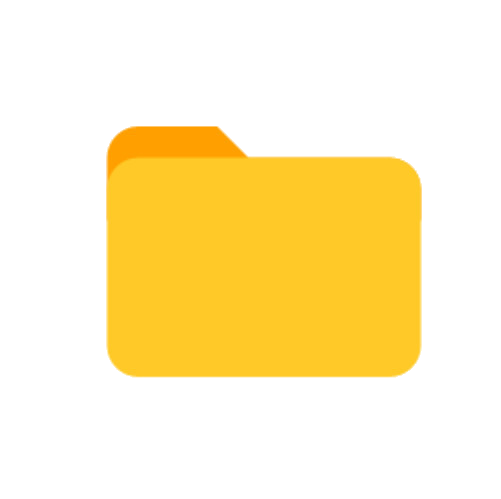
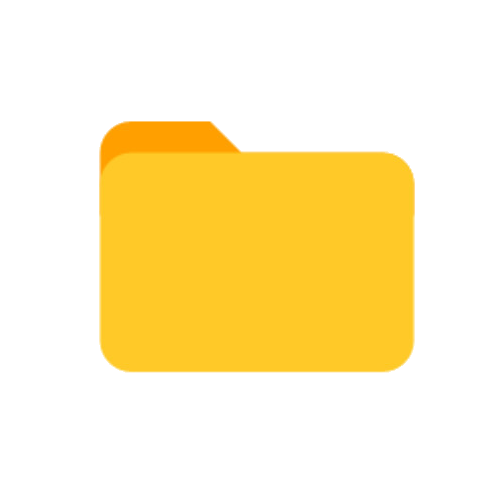
Fixed image sizing issue in latex folders.

diff --git a/src/components/extras/latex/LatexFolders.tsx b/src/components/extras/latex/LatexFolders.tsx
@@ -1,0 +1,49 @@
+import { useState } from 'react';
+import styles from './LatexFolders.module.scss';
+
+import CourseFolder from "./CourseFolder";
+
+const LatexFolders = () => {
+
+    const [xPos, setXPos] = useState(0);
+
+    const onClick = (direction) => {
+        if (direction === 'left') {
+            xPos === -780 ? setXPos(xPos) : setXPos(xPos - 130);
+        } else {
+            xPos === 0 ? setXPos(xPos) : setXPos(xPos + 130);
+        }
+    }
+
+    const courseNames = [
+        { id: 'MATH 314', name: 'Advanced Calculus' },
+        { id: 'MATH 475', name: 'Hons. Partial Differential Equations' },
+        { id: 'MATH 325', name: 'Hons. Ordinary Differntial Equations' },
+        { id: 'MATH 240', name: 'Discret Mathematics' },
+        { id: 'PHYS 241', name: 'Signals Processing' },
+        { id: 'PHYS 350', name: 'Hons. Quantum Mechanics' },
+        { id: 'PHYS 356', name: 'Hons. Electricity and Magnetism' },
+        { id: 'MATH 327', name: 'Matrix Numerical Analysis' },
+        { id: 'PHYS 230', name: 'Dynamics of Simple Systems' }
+    ]
+
+    return (
+        <div className={styles.forecast_window}>
+            <button className={styles.left_arrow}
+                onClick={() => onClick('right')}>
+            </button>
+            <div className={styles.forecast_slider}>
+                <div className={styles.forecast_container} style={{ transform: `translateX(${xPos}px)` }}>
+                    {courseNames.map((value, index) => (
+                        <CourseFolder value={value} key={index} xPos={xPos} index={index}/>
+                    ))}
+                </div>
+            </div>
+            <button className={styles.right_arrow}
+                onClick={() => onClick('left')}>
+            </button>
+        </div>
+    )
+}
+
+export default LatexFolders;

diff --git a/src/components/extras/latex/CourseFolder.tsx b/src/components/extras/latex/CourseFolder.tsx
@@ -1,0 +1,36 @@
+import { useState } from 'react';
+import styles from './LatexFolders.module.scss';
+import openFolder from '../../../assets/folderOpen.png';
+import closedFolder from '../../../assets/folderClosed.png';
+
+function CourseFolder(props) {
+  const { value, key , xPos, index} = props;
+
+  const [image, setImage] = useState(closedFolder);
+
+  const handleMouseOver = () => {
+    setImage(openFolder);
+  };
+
+  const handleMouseLeave = () => {
+    setImage(closedFolder);
+  };
+
+  return (
+    <div className={styles.folderContainer} key={key}>
+      <span>{value.id}</span>
+      <div
+        onMouseEnter={() => {
+          handleMouseOver();
+        }}
+        onMouseLeave={() => {
+          handleMouseLeave();
+        }}
+      >
+        <img className={-xPos/130 !== index-1 ? styles.shrinkImage : ''} src={image} width="130" alt="alternative" />
+      </div>
+    </div>
+  );
+}
+
+export default CourseFolder;

diff --git a/src/components/extras/playlist/Playlist.tsx b/src/components/extras/playlist/Playlist.tsx
@@ -1,12 +1,11 @@
 import { useState, useEffect, useLayoutEffect, useRef } from 'react';
-import playIcon from '../../assets/play.png';
-import pauseIcon from '../../assets/pause.png';
-import prevIcon from '../../assets/prev.png';
-import nextIcon from '../../assets/next.png';
+import playIcon from '../../../assets/play.png';
+import pauseIcon from '../../../assets/pause.png';
+import prevIcon from '../../../assets/prev.png';
+import nextIcon from '../../../assets/next.png';
 import ProgressBar from "@ramonak/react-progress-bar";
-import { IndexKind } from 'typescript';
 // import ProgressBar from './ProgressBarWrapper';
-const styles = require('../extras/Playlist.module.scss');
+const styles = require('./Playlist.module.scss');
 
 const trackIds = [
   558781332, //saviour

diff --git a/src/components/extras/latex/LatexFolders.module.scss b/src/components/extras/latex/LatexFolders.module.scss
@@ -12,10 +12,12 @@
     img {
         transition: 0.75s;
         transform: scale(1.2);
+        cursor: pointer;
     }
 
+
     .left_arrow {
-        background: url('../../assets/left_arrow.png');
+        background: url('../../../assets/left_arrow.png');
         background-size: cover;
         border: none;
       
@@ -28,7 +30,7 @@
       }
 
     .right_arrow {
-        background: url('../../assets/left_arrow.png');
+        background: url('../../../assets/left_arrow.png');
         background-size: cover;
         border: none;
       

diff --git a/src/components/extras/Extras.tsx b/src/components/extras/Extras.tsx
@@ -2,8 +2,8 @@ import ProgressBar from '@ramonak/react-progress-bar';
 import chessPicture from '../../assets/chess_picture.jpg';
 import chessIcon from '../../assets/chessIcon.png';
 import lichessIcon from '../../assets/lichessIcon.png';
-import Playlist from './Playlist';
-import LatexFolders from './LatexFolders';
+import Playlist from './playlist/Playlist';
+import LatexFolders from './latex/LatexFolders';
 import { StylesProvider } from '@material-ui/core';
 
 const styles = require('../extras/Extras.module.scss');
